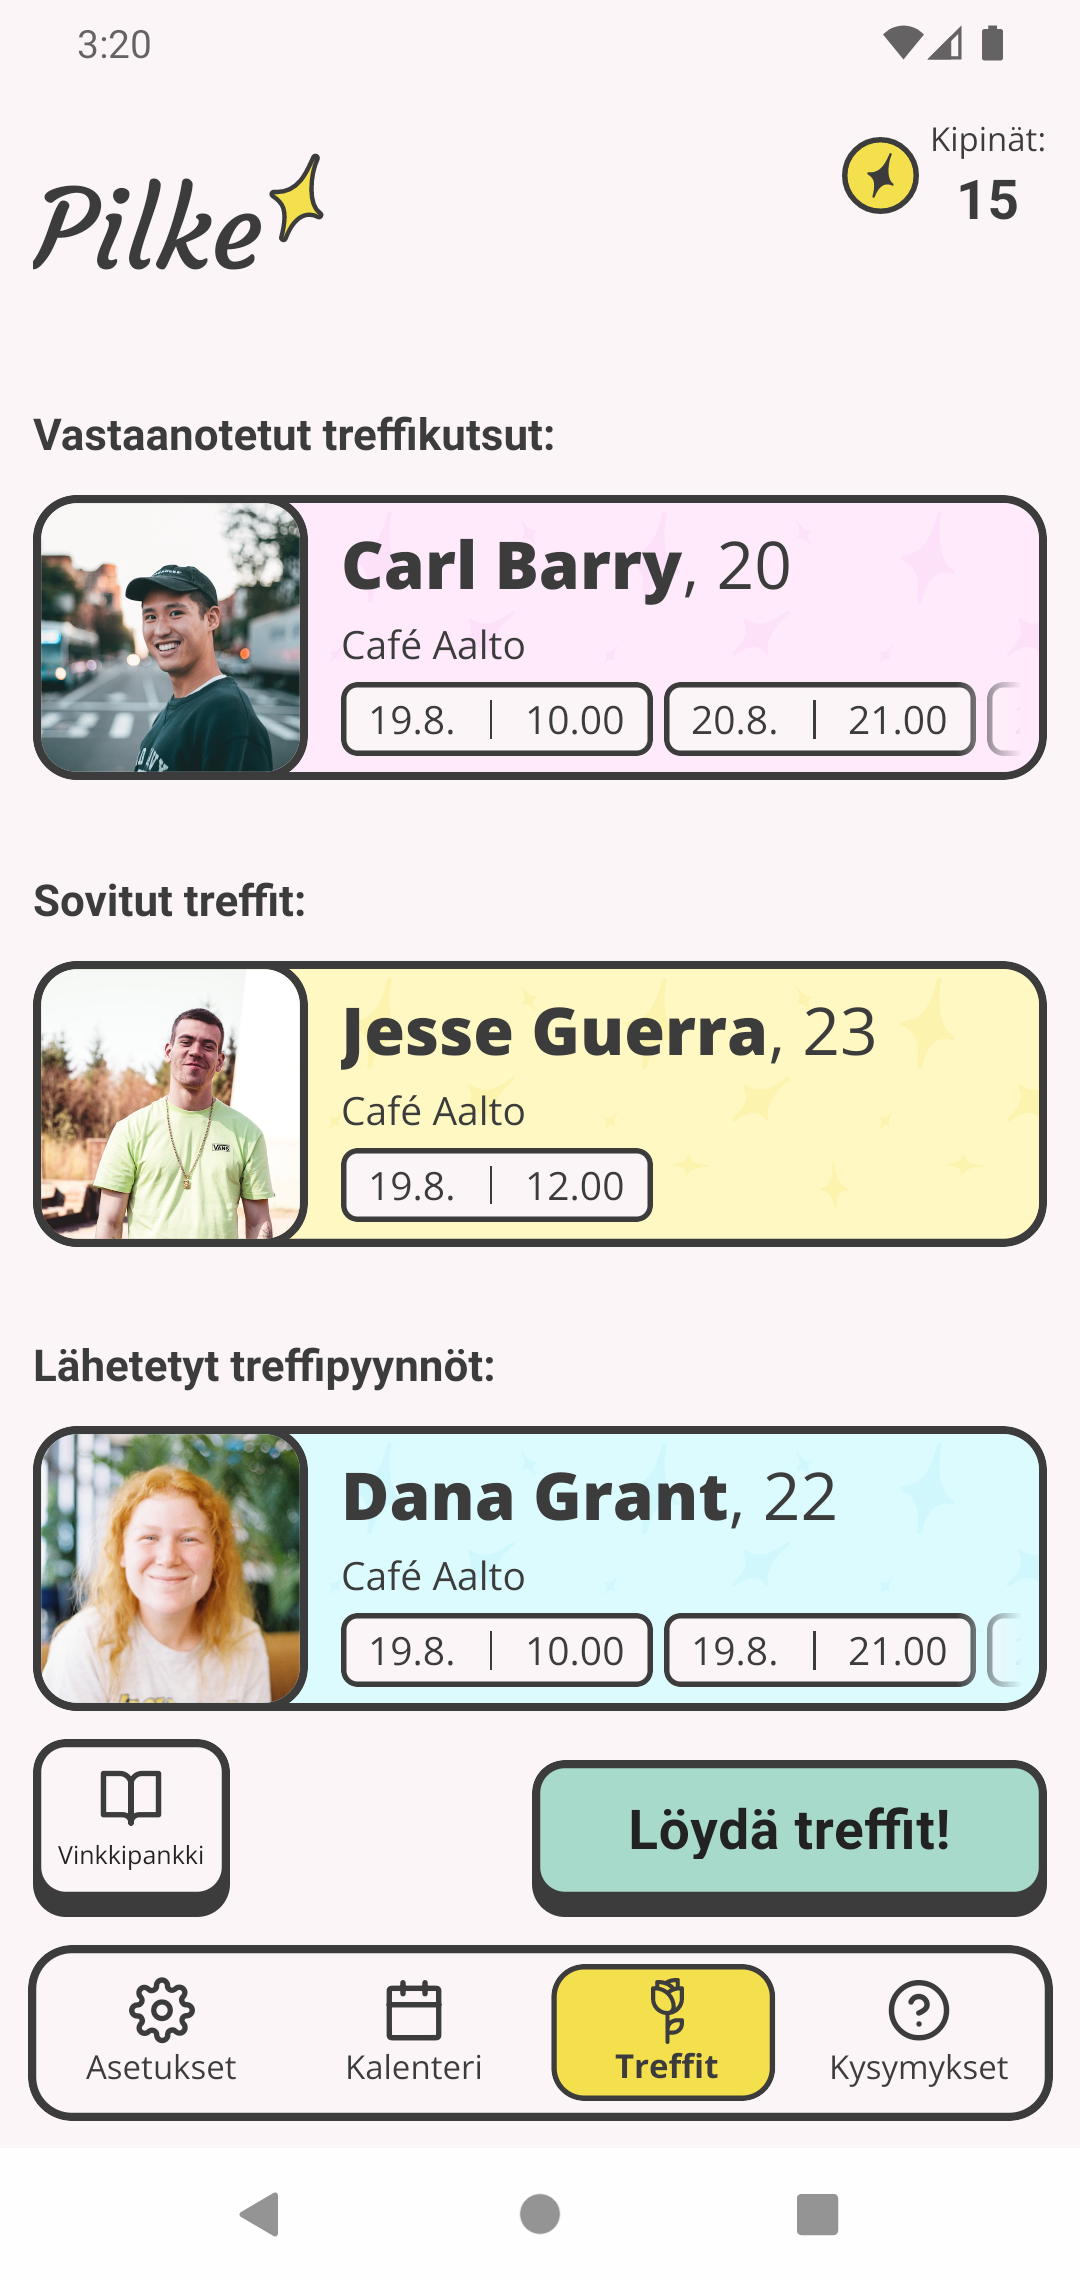
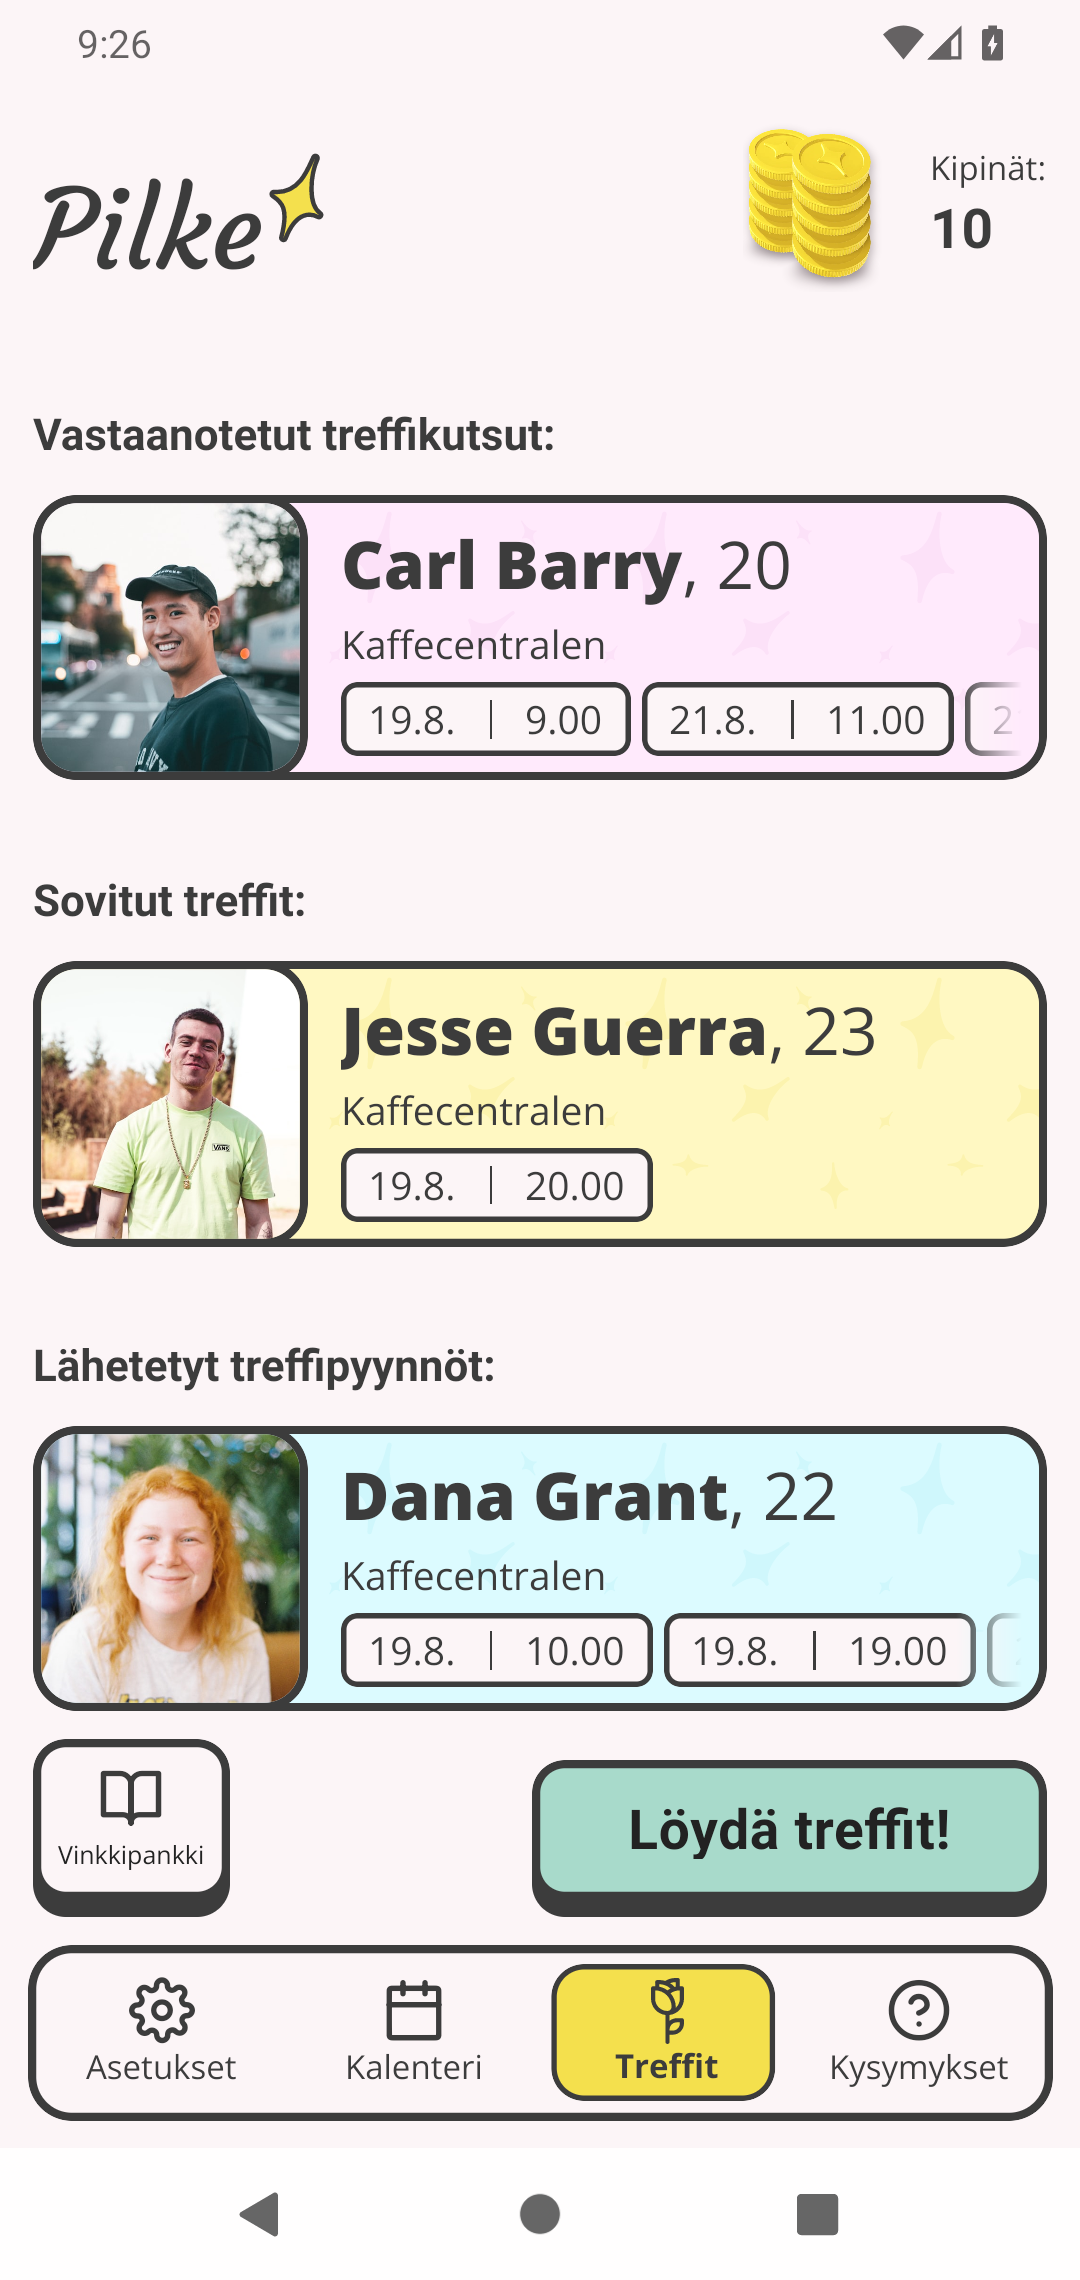
feat(economy): draw the currency as the app draws it
The price line carried a flat vector coin while the app moved to renders, so
the two showed different money. The site now draws the app's own picture of
five coins, from the same renderer, and its README carries the command this
copy comes from.

The screenshot of the home screen goes with it. Only one of the eight shots
shows the balance counter, and it still had the old mark and a reading set
under its label rather than beside it.

Three things about the port are deliberate. The pictures are imported one by
one rather than globbed: a glob is tidier and costs the whole set, because
Astro copies every image it can see into the build whether a page draws it or
not, so fourteen unused renders would ship as 700kB. An amount with no
picture throws at build time rather than clamping, which is what the app does
with a live balance that a refund can carry past the ceiling; every amount
here is written by hand, so a count with no file is a typo. And the price
figure is sized against the coins rather than the running text, since the
mark is now three times the height it was and a body-scale figure beside it
reads as a footnote to the picture instead of the price it is of.

diff --git a/src/i18n/ui.ts b/src/i18n/ui.ts
@@ -85,6 +85,7 @@ const fi = {
 
   'economy.title': 'Kipinät',
   'economy.lead': 'Viisi kipinää avaa kolmen ehdokkaan valikoiman.',
+  'economy.pile.alt': 'Viisi kipinäkolikkoa pinossa.',
   'economy.earn.title': 'Näin kipinät kertyvät',
   'economy.spend.title': 'Näin kipinät kuluvat',
   'economy.spend.body':
@@ -287,6 +288,7 @@ const en: Record<keyof typeof fi, string> = {
 
   'economy.title': 'Glimmers',
   'economy.lead': 'Five glimmers open a set of three candidates.',
+  'economy.pile.alt': 'Five glimmer coins in a pile.',
   'economy.earn.title': 'How glimmers add up',
   'economy.spend.title': 'How glimmers go',
   'economy.spend.body':
